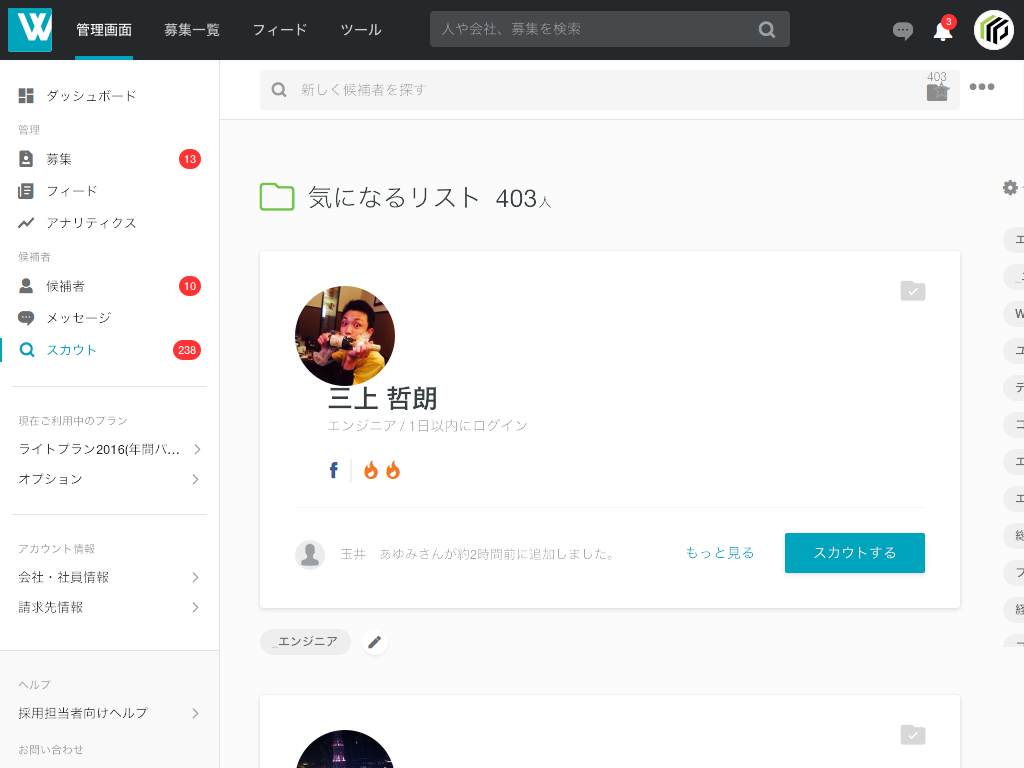
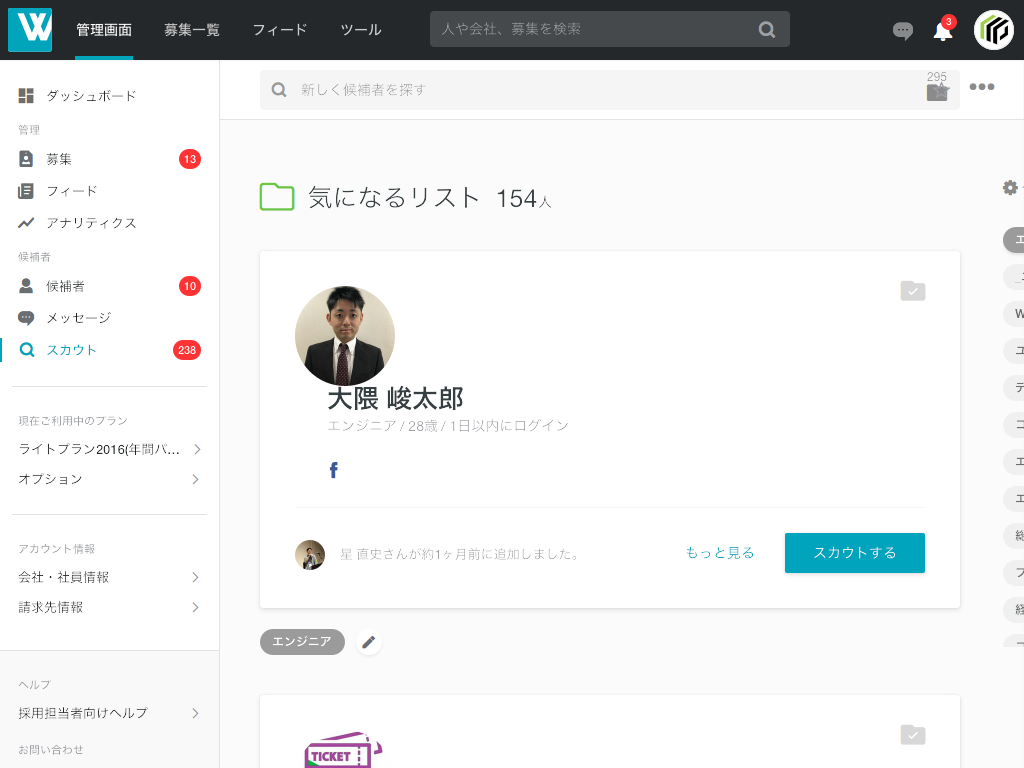
ファイル名をわかりやすくした、sleepの微調整

diff --git a/wantedly_resetter.rb b/wantedly_resetter.rb
@@ -31,6 +31,7 @@ all(".wt-ui-button-blue")[0].trigger("click") # ログインボタン
 puts "Successfully logged in"
 find(".label", text: "スカウト").trigger("click") # パラメータつきでURLにvisitすると何故かトップに行くので使わない
 find(".scout-bookmarked-users-button").trigger("click")
+all(".tag-manager-tag", text: "エンジニア")[0].trigger("click")
 sleep(3)
 
 waitings = all(".content-title-count")[0].text.to_i # お気に入り人数
@@ -45,4 +46,5 @@ pages.times do
     sleep(rand(3))
   end
   visit current_url
+  sleep(3)
 end
